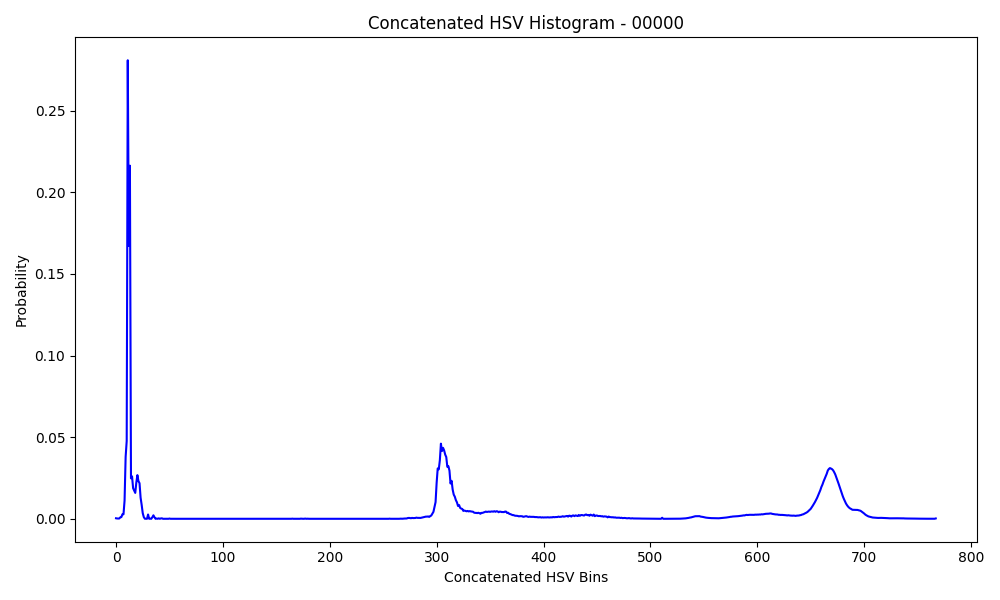
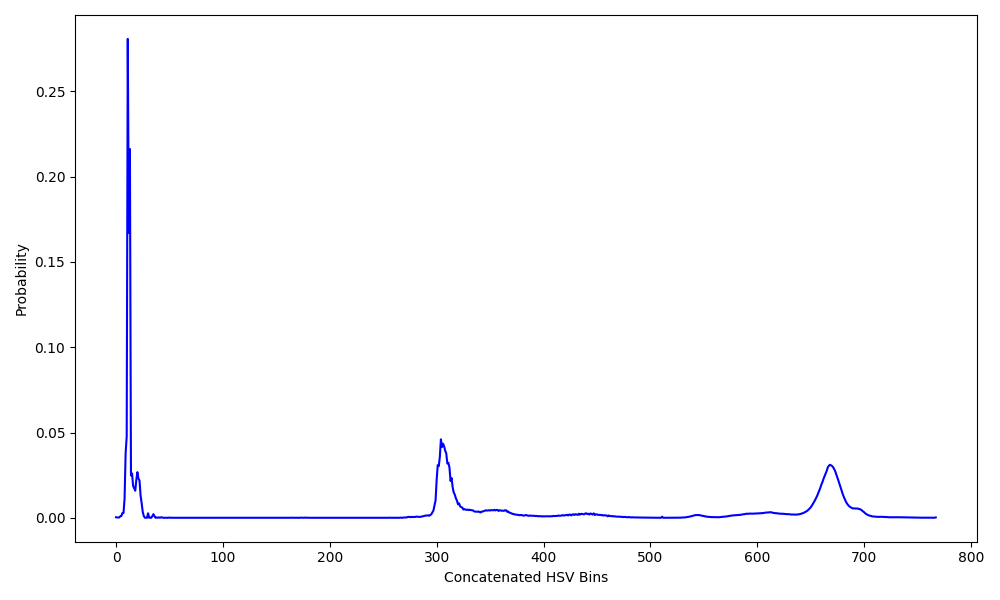
.

diff --git a/save_concatenated.py b/save_concatenated.py
@@ -28,14 +28,14 @@ def plot_individual_histogram(hist, image_name, save_dir):
     plt.plot(hist, color='blue')
     plt.xlabel('Concatenated HSV Bins')
     plt.ylabel('Probability')
-    plt.title(f'Concatenated HSV Histogram - {image_name}')
     plt.tight_layout()
 
-    hist_image_filename = os.path.join(save_dir, f'{image_name}_hsv_histogram.png')
+    # Save using the image's base name (without extension)
+    hist_image_filename = os.path.join(save_dir, f'{image_name}_concatenated_hsv_histogram.png')
     plt.savefig(hist_image_filename)
     plt.close()
 
-    print(f'Concatenated HSV histogram for {image_name} saved as {hist_image_filename}')
+    print(f'Concatenated HSV histogram saved as {hist_image_filename}')
 
 def plot_combined_histograms(hist1, hist2, image_name1, image_name2, save_dir):
     # Plot both concatenated histograms on the same plot
@@ -46,12 +46,11 @@ def plot_combined_histograms(hist1, hist2, image_name1, image_name2, save_dir):
     
     plt.xlabel('Concatenated HSV Bins')
     plt.ylabel('Probability')
-    plt.title(f'Combined HSV Histograms - {image_name1} and {image_name2}')
     plt.legend()
 
-    # Save the plot
+    # Save the plot using both image names
     os.makedirs(save_dir, exist_ok=True)
-    hist_image_filename = os.path.join(save_dir, 'combined_hsv_histograms.png')
+    hist_image_filename = os.path.join(save_dir, f'{image_name1}_{image_name2}_combined_hsv_histograms.png')
     plt.tight_layout()
     plt.savefig(hist_image_filename)
     plt.close()
